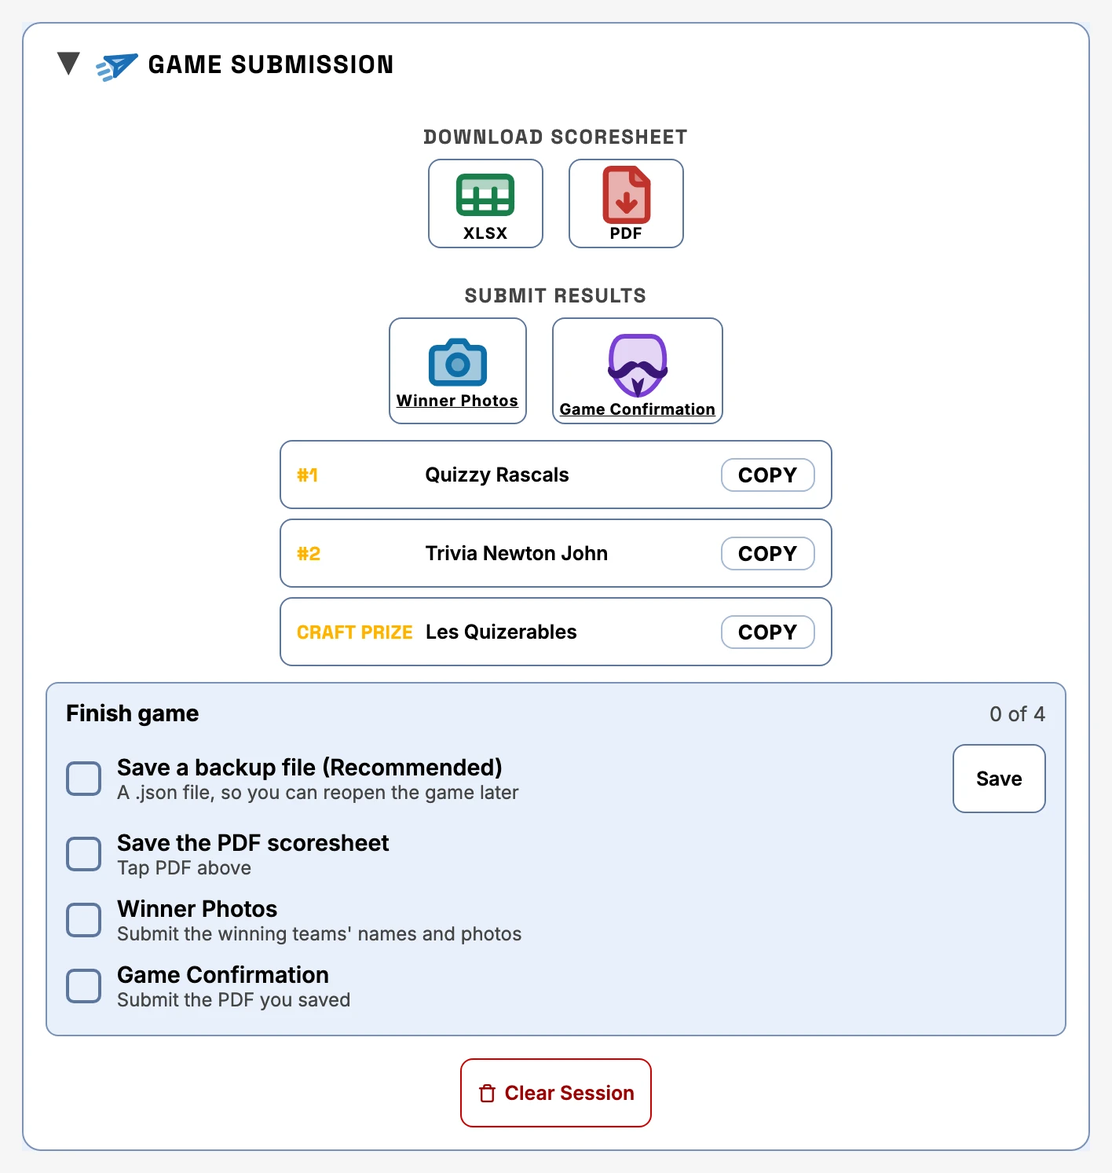
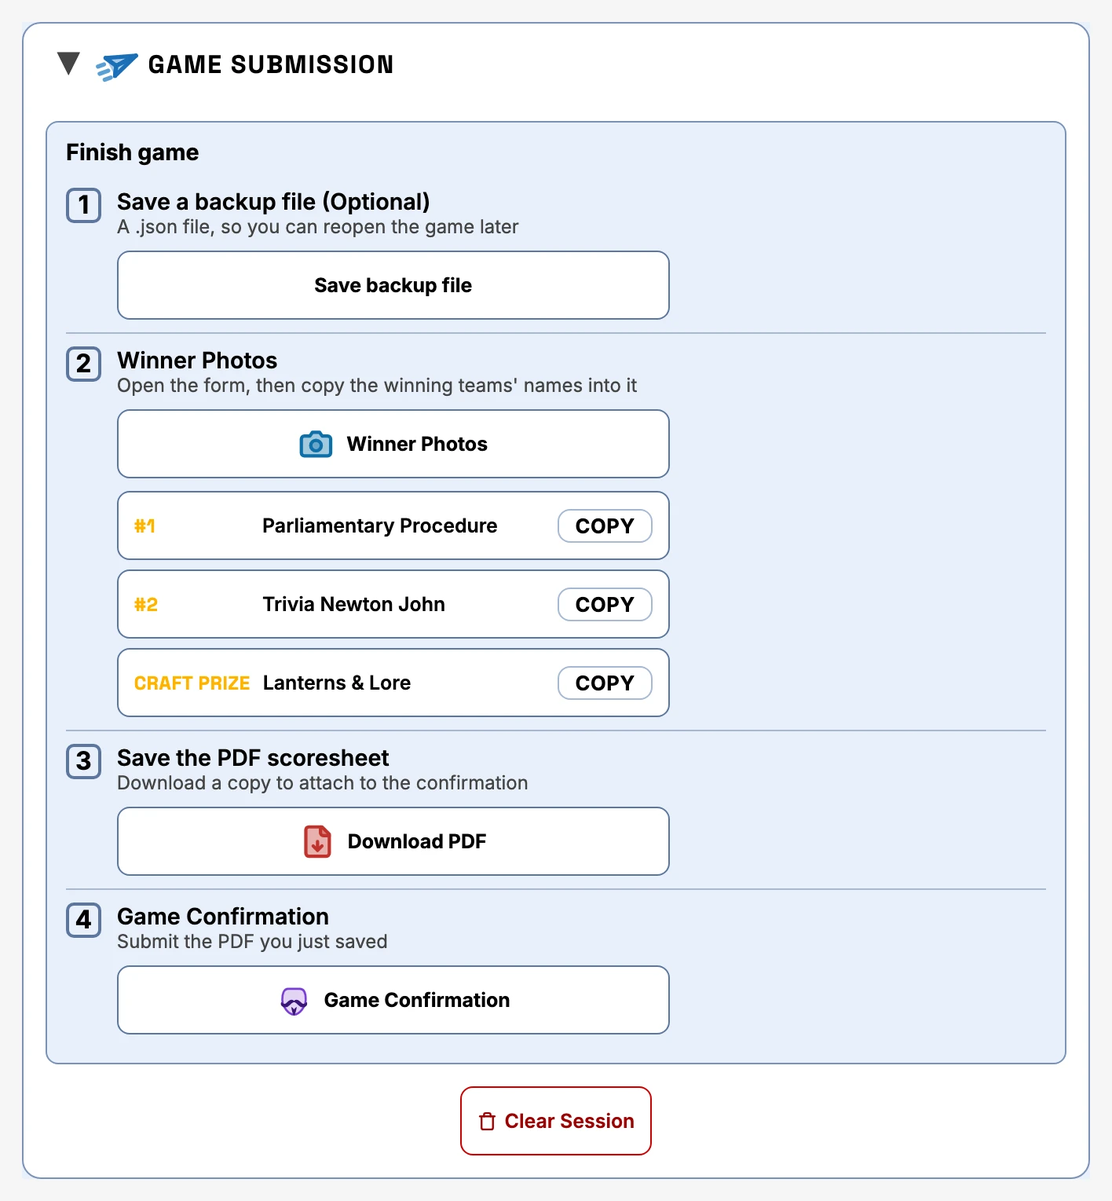
v22.59 follow-up: FAQ v1.66 rewrites Game Submission wrap-up for the numbered steps, drops XLSX mentions, regenerated export-bar screenshots

diff --git a/faq/index.html b/faq/index.html
@@ -30,7 +30,7 @@
     <script src="js/faq-bootstrap.js"></script>
   </head>
   <body>
-    <svg style="display:none" aria-hidden="true"><symbol id="ic-gear" viewBox="0 0 24 24"><path d="M12.22 2h-.44a2 2 0 0 0-2 2v.18a2 2 0 0 1-1 1.73l-.43.25a2 2 0 0 1-2 0l-.15-.08a2 2 0 0 0-2.73.73l-.22.38a2 2 0 0 0 .73 2.73l.15.1a2 2 0 0 1 1 1.72v.51a2 2 0 0 1-1 1.74l-.15.09a2 2 0 0 0-.73 2.73l.22.38a2 2 0 0 0 2.73.73l.15-.08a2 2 0 0 1 2 0l.43.25a2 2 0 0 1 1 1.73V20a2 2 0 0 0 2 2h.44a2 2 0 0 0 2-2v-.18a2 2 0 0 1 1-1.73l.43-.25a2 2 0 0 1 2 0l.15.08a2 2 0 0 0 2.73-.73l.22-.39a2 2 0 0 0-.73-2.73l-.15-.08a2 2 0 0 1-1-1.74v-.5a2 2 0 0 1 1-1.74l.15-.09a2 2 0 0 0 .73-2.73l-.22-.38a2 2 0 0 0-2.73-.73l-.15.08a2 2 0 0 1-2 0l-.43-.25a2 2 0 0 1-1-1.73V4a2 2 0 0 0-2-2z"/><circle cx="12" cy="12" r="3"/></symbol><symbol id="ic-moon" viewBox="0 0 24 24"><path d="M21 12.79A9 9 0 1 1 11.21 3 7 7 0 0 0 21 12.79z"></path></symbol><symbol id="ic-beer" viewBox="0 0 24 24"><style>.ip-2{fill:var(--vivid-beer-2);stroke:var(--icon-tint)}</style><path d="M5 8v12a2 2 0 0 0 2 2h8a2 2 0 0 0 2-2V8"/><path d="M17 9h1a3 5 0 0 1 0 10h-1"/><path d="M9 12v6"/><path d="M13 12v6"/><path class="ip-2" d="M14 7.5c-1 0-1.44.5-3 .5s-2-.5-3-.5-1.72.5-2.5.5a2.5 2.5 0 0 1 0-5c.78 0 1.57.5 2.5.5S9.44 3 11 3s2 .5 3 .5 1.72-.5 2.5-.5a2.5 2.5 0 0 1 0 5c-.78 0-1.5-.5-2.5-.5Z"/></symbol><symbol id="ic-alert" viewBox="0 0 24 24"><path d="m21.73 18-8-14a2 2 0 0 0-3.48 0l-8 14A2 2 0 0 0 4 21h16a2 2 0 0 0 1.73-3"/><path d="M12 9v4"/><path d="M12 17h.01"/></symbol><symbol id="ic-flask" viewBox="0 0 24 24"><path d="M10 2v7.31"/><path d="M14 9.3V1.99"/><path d="M8.5 2h7"/><path d="M14 9.3a6.5 6.5 0 1 1-4 0"/><path d="M5.52 16h12.96"/></symbol><symbol id="ic-hand" viewBox="0 0 24 24"><path d="M18 11V6a2 2 0 0 0-2-2a2 2 0 0 0-2 2"/><path d="M14 10V4a2 2 0 0 0-2-2a2 2 0 0 0-2 2v2"/><path d="M10 10.5V6a2 2 0 0 0-2-2a2 2 0 0 0-2 2v8"/><path d="M18 8a2 2 0 1 1 4 0v6a8 8 0 0 1-8 8h-2c-2.8 0-4.5-.86-5.99-2.34l-3.6-3.6a2 2 0 0 1 2.83-2.82L7 15"/></symbol><symbol id="ic-sort" viewBox="0 0 24 24"><path d="M7 4v16"></path><path d="m3 8 4-4 4 4"></path><path d="M17 20V4"></path><path d="m21 16-4 4-4-4"></path></symbol><symbol id="ic-lock" viewBox="0 0 24 24"><rect width="18" height="11" x="3" y="11" rx="2" ry="2"/><path d="M7 11V7a5 5 0 0 1 10 0v4"/></symbol><symbol id="ic-play" viewBox="0 0 24 24"><path d="M8 5v14l11-7z"/></symbol><symbol id="ic-pause" viewBox="0 0 24 24"><rect x="6" y="5" width="4" height="14"/><rect x="14" y="5" width="4" height="14"/></symbol><symbol id="ic-reset" viewBox="0 0 24 24"><path d="M3 12a9 9 0 1 0 9-9 9.75 9.75 0 0 0-6.74 2.74L3 8"></path><path d="M3 3v5h5"></path></symbol><symbol id="ic-chart" viewBox="0 0 24 24"><line x1="12" x2="12" y1="20" y2="10"/><line x1="18" x2="18" y1="20" y2="4"/><line x1="6" x2="6" y1="20" y2="16"/></symbol><symbol id="ic-shuffle" viewBox="0 0 24 24"><path d="M2 18h1.4c1.3 0 2.5-.6 3.3-1.7l6.1-8.6c.8-1.1 2-1.7 3.3-1.7H22"></path><path d="m18 2 4 4-4 4"></path><path d="M2 6h1.9c1.5 0 2.9.9 3.6 2.2"></path><path d="M22 18h-5.9c-1.3 0-2.6-.7-3.3-1.8l-.5-.8"></path><path d="m18 14 4 4-4 4"></path></symbol><symbol id="ic-check" viewBox="0 0 24 24"><polyline points="5,13 10,18 20,6"></polyline></symbol><symbol id="ic-drum" viewBox="0 0 24 24"><style>.dr-shell{fill:var(--icon-tint)}.ip-2{fill:var(--vivid-beer-2);stroke:var(--icon-tint)}.ip-3{fill:none;stroke:var(--icon-tint-3)}.dr-rod{stroke-width:1.9}</style><path class="dr-shell" d="M2 9v8a10 5 0 0 0 20 0V9"/><path class="ip-3 dr-rod" d="M6 9.4v8.1M12 9.8v8.8M18 9.4v8.1"/><ellipse class="ip-2" cx="12" cy="9" rx="10" ry="5"/><path class="ip-3 dr-stick" d="m2 2 6 6"/><path class="ip-3" d="m22 2-6 6"/></symbol><symbol id="ic-camera" viewBox="0 0 24 24"><path d="M14.5 4h-5L7.8 6.5H4a2 2 0 0 0-2 2V18a2 2 0 0 0 2 2h16a2 2 0 0 0 2-2V8.5a2 2 0 0 0-2-2h-3.8Z"/><circle cx="12" cy="13" r="3.6"/></symbol><symbol id="ic-sheet" viewBox="0 0 24 24"><rect x="2" y="5" width="20" height="14" rx="2"/><path class="sh-head" d="M4 5h16a2 2 0 0 1 2 2v3H2V7a2 2 0 0 1 2-2Z"/><path d="M2 14.5h20"/><path d="M8.5 10v9"/><path d="M15.5 10v9"/></symbol><symbol id="ic-pdf" viewBox="0 0 24 24"><path d="M15 2H6a2 2 0 0 0-2 2v16a2 2 0 0 0 2 2h12a2 2 0 0 0 2-2V7Z"/><path d="M14 2v4a2 2 0 0 0 2 2h4"/><path d="M12 12v6"/><path d="m9 15 3 3 3-3"/></symbol><symbol id="ic-fawkes" viewBox="0 0 24 24"><style>.ip-2{fill:var(--icon-tint);stroke:none}</style><path d="M8 4.2H16C19.2 4.2 20 8.2 20 11.4 20 16.6 15.6 21.8 12 21.8 8.4 21.8 4 16.6 4 11.4 4 8.2 4.8 4.2 8 4.2Z"/><path class="ip-2" d="M12 13.1c-.5-.9-1.6-1.3-2.6-.9-1.6.6-2.2 2.3-3.6 2.6-1 .2-1.9-.3-2.3-1.1-.3.9.1 2 1.1 2.5 1.7.8 3.5-.2 4.6-1.4.5-.6 1.1-1.1 1.8-1.4v-.3Zm0 0c.5-.9 1.6-1.3 2.6-.9 1.6.6 2.2 2.3 3.6 2.6 1 .2 1.9-.3 2.3-1.1.3.9-.1 2-1.1 2.5-1.7.8-3.5-.2-4.6-1.4-.5-.6-1.1-1.1-1.8-1.4v-.3Z"/><path class="ip-2" d="M10.1 16.6c.4 2.5 1 4.6 1.9 6.1.9-1.5 1.5-3.6 1.9-6.1-.8.4-1.3.8-1.9 1.7-.6-.9-1.1-1.3-1.9-1.7Z"/></symbol><symbol id="ic-save" viewBox="0 0 24 24"><path d="M15.2 3a2 2 0 0 1 1.4.6l3.8 3.8a2 2 0 0 1 .6 1.4V19a2 2 0 0 1-2 2H5a2 2 0 0 1-2-2V5a2 2 0 0 1 2-2z"/><path d="M17 21v-7a1 1 0 0 0-1-1H8a1 1 0 0 0-1 1v7"/><path d="M7 3v4a1 1 0 0 0 1 1h7"/></symbol><symbol id="ic-load" viewBox="0 0 24 24"><path d="m6 14 1.45-2.9A2 2 0 0 1 9.24 10H20a2 2 0 0 1 1.94 2.5l-1.55 6a2 2 0 0 1-1.94 1.5H4a2 2 0 0 1-2-2V5a2 2 0 0 1 2-2h3.9a2 2 0 0 1 1.69.9l.81 1.2a2 2 0 0 0 1.67.9H18a2 2 0 0 1 2 2v2"/></symbol><symbol id="ic-help" viewBox="0 0 24 24"><circle cx="12" cy="12" r="10"/><path d="M9.09 9a3 3 0 0 1 5.83 1c0 2-3 3-3 3"/><path d="M12 17h.01"/></symbol><symbol id="ic-sun" viewBox="0 0 24 24"><circle cx="12" cy="12" r="5"></circle><g stroke-width="2" stroke-linecap="round"><line x1="12" y1="1" x2="12" y2="3"></line><line x1="12" y1="21" x2="12" y2="23"></line><line x1="4.22" y1="4.22" x2="5.64" y2="5.64"></line><line x1="18.36" y1="18.36" x2="19.78" y2="19.78"></line><line x1="1" y1="12" x2="3" y2="12"></line><line x1="21" y1="12" x2="23" y2="12"></line><line x1="4.22" y1="19.78" x2="5.64" y2="18.36"></line><line x1="18.36" y1="5.64" x2="19.78" y2="4.22"></line></g></symbol><symbol id="ic-x" viewBox="0 0 24 24"><line x1="6" y1="6" x2="18" y2="18"></line><line x1="18" y1="6" x2="6" y2="18"></line></symbol><symbol id="ic-horn" viewBox="0 0 24 24"><path class="pl-tri" d="M8.5 5.5 19 12l-10.5 6.5z"/></symbol><symbol id="ic-clipboard" viewBox="0 0 24 24"><rect width="8" height="4" x="8" y="2" rx="1" ry="1"/><path d="M16 4h2a2 2 0 0 1 2 2v14a2 2 0 0 1-2 2H6a2 2 0 0 1-2-2V6a2 2 0 0 1 2-2h2"/></symbol><symbol id="ic-txt" viewBox="0 0 24 24"><path d="M15 2H6a2 2 0 0 0-2 2v16a2 2 0 0 0 2 2h12a2 2 0 0 0 2-2V7Z"/><path d="M14 2v4a2 2 0 0 0 2 2h4"/><path d="M16 13H8"/><path d="M16 17H8"/></symbol></svg>
+    <svg style="display:none" aria-hidden="true"><symbol id="ic-gear" viewBox="0 0 24 24"><path d="M12.22 2h-.44a2 2 0 0 0-2 2v.18a2 2 0 0 1-1 1.73l-.43.25a2 2 0 0 1-2 0l-.15-.08a2 2 0 0 0-2.73.73l-.22.38a2 2 0 0 0 .73 2.73l.15.1a2 2 0 0 1 1 1.72v.51a2 2 0 0 1-1 1.74l-.15.09a2 2 0 0 0-.73 2.73l.22.38a2 2 0 0 0 2.73.73l.15-.08a2 2 0 0 1 2 0l.43.25a2 2 0 0 1 1 1.73V20a2 2 0 0 0 2 2h.44a2 2 0 0 0 2-2v-.18a2 2 0 0 1 1-1.73l.43-.25a2 2 0 0 1 2 0l.15.08a2 2 0 0 0 2.73-.73l.22-.39a2 2 0 0 0-.73-2.73l-.15-.08a2 2 0 0 1-1-1.74v-.5a2 2 0 0 1 1-1.74l.15-.09a2 2 0 0 0 .73-2.73l-.22-.38a2 2 0 0 0-2.73-.73l-.15.08a2 2 0 0 1-2 0l-.43-.25a2 2 0 0 1-1-1.73V4a2 2 0 0 0-2-2z"/><circle cx="12" cy="12" r="3"/></symbol><symbol id="ic-moon" viewBox="0 0 24 24"><path d="M21 12.79A9 9 0 1 1 11.21 3 7 7 0 0 0 21 12.79z"></path></symbol><symbol id="ic-beer" viewBox="0 0 24 24"><style>.ip-2{fill:var(--vivid-beer-2);stroke:var(--icon-tint)}</style><path d="M5 8v12a2 2 0 0 0 2 2h8a2 2 0 0 0 2-2V8"/><path d="M17 9h1a3 5 0 0 1 0 10h-1"/><path d="M9 12v6"/><path d="M13 12v6"/><path class="ip-2" d="M14 7.5c-1 0-1.44.5-3 .5s-2-.5-3-.5-1.72.5-2.5.5a2.5 2.5 0 0 1 0-5c.78 0 1.57.5 2.5.5S9.44 3 11 3s2 .5 3 .5 1.72-.5 2.5-.5a2.5 2.5 0 0 1 0 5c-.78 0-1.5-.5-2.5-.5Z"/></symbol><symbol id="ic-alert" viewBox="0 0 24 24"><path d="m21.73 18-8-14a2 2 0 0 0-3.48 0l-8 14A2 2 0 0 0 4 21h16a2 2 0 0 0 1.73-3"/><path d="M12 9v4"/><path d="M12 17h.01"/></symbol><symbol id="ic-flask" viewBox="0 0 24 24"><path d="M10 2v7.31"/><path d="M14 9.3V1.99"/><path d="M8.5 2h7"/><path d="M14 9.3a6.5 6.5 0 1 1-4 0"/><path d="M5.52 16h12.96"/></symbol><symbol id="ic-hand" viewBox="0 0 24 24"><path d="M18 11V6a2 2 0 0 0-2-2a2 2 0 0 0-2 2"/><path d="M14 10V4a2 2 0 0 0-2-2a2 2 0 0 0-2 2v2"/><path d="M10 10.5V6a2 2 0 0 0-2-2a2 2 0 0 0-2 2v8"/><path d="M18 8a2 2 0 1 1 4 0v6a8 8 0 0 1-8 8h-2c-2.8 0-4.5-.86-5.99-2.34l-3.6-3.6a2 2 0 0 1 2.83-2.82L7 15"/></symbol><symbol id="ic-sort" viewBox="0 0 24 24"><path d="M7 4v16"></path><path d="m3 8 4-4 4 4"></path><path d="M17 20V4"></path><path d="m21 16-4 4-4-4"></path></symbol><symbol id="ic-lock" viewBox="0 0 24 24"><rect width="18" height="11" x="3" y="11" rx="2" ry="2"/><path d="M7 11V7a5 5 0 0 1 10 0v4"/></symbol><symbol id="ic-play" viewBox="0 0 24 24"><path d="M8 5v14l11-7z"/></symbol><symbol id="ic-pause" viewBox="0 0 24 24"><rect x="6" y="5" width="4" height="14"/><rect x="14" y="5" width="4" height="14"/></symbol><symbol id="ic-reset" viewBox="0 0 24 24"><path d="M3 12a9 9 0 1 0 9-9 9.75 9.75 0 0 0-6.74 2.74L3 8"></path><path d="M3 3v5h5"></path></symbol><symbol id="ic-chart" viewBox="0 0 24 24"><line x1="12" x2="12" y1="20" y2="10"/><line x1="18" x2="18" y1="20" y2="4"/><line x1="6" x2="6" y1="20" y2="16"/></symbol><symbol id="ic-shuffle" viewBox="0 0 24 24"><path d="M2 18h1.4c1.3 0 2.5-.6 3.3-1.7l6.1-8.6c.8-1.1 2-1.7 3.3-1.7H22"></path><path d="m18 2 4 4-4 4"></path><path d="M2 6h1.9c1.5 0 2.9.9 3.6 2.2"></path><path d="M22 18h-5.9c-1.3 0-2.6-.7-3.3-1.8l-.5-.8"></path><path d="m18 14 4 4-4 4"></path></symbol><symbol id="ic-check" viewBox="0 0 24 24"><polyline points="5,13 10,18 20,6"></polyline></symbol><symbol id="ic-drum" viewBox="0 0 24 24"><style>.dr-shell{fill:var(--icon-tint)}.ip-2{fill:var(--vivid-beer-2);stroke:var(--icon-tint)}.ip-3{fill:none;stroke:var(--icon-tint-3)}.dr-rod{stroke-width:1.9}</style><path class="dr-shell" d="M2 9v8a10 5 0 0 0 20 0V9"/><path class="ip-3 dr-rod" d="M6 9.4v8.1M12 9.8v8.8M18 9.4v8.1"/><ellipse class="ip-2" cx="12" cy="9" rx="10" ry="5"/><path class="ip-3 dr-stick" d="m2 2 6 6"/><path class="ip-3" d="m22 2-6 6"/></symbol><symbol id="ic-camera" viewBox="0 0 24 24"><path d="M14.5 4h-5L7.8 6.5H4a2 2 0 0 0-2 2V18a2 2 0 0 0 2 2h16a2 2 0 0 0 2-2V8.5a2 2 0 0 0-2-2h-3.8Z"/><circle cx="12" cy="13" r="3.6"/></symbol><symbol id="ic-pdf" viewBox="0 0 24 24"><path d="M15 2H6a2 2 0 0 0-2 2v16a2 2 0 0 0 2 2h12a2 2 0 0 0 2-2V7Z"/><path d="M14 2v4a2 2 0 0 0 2 2h4"/><path d="M12 12v6"/><path d="m9 15 3 3 3-3"/></symbol><symbol id="ic-fawkes" viewBox="0 0 24 24"><style>.ip-2{fill:var(--icon-tint);stroke:none}</style><path d="M8 4.2H16C19.2 4.2 20 8.2 20 11.4 20 16.6 15.6 21.8 12 21.8 8.4 21.8 4 16.6 4 11.4 4 8.2 4.8 4.2 8 4.2Z"/><path class="ip-2" d="M12 13.1c-.5-.9-1.6-1.3-2.6-.9-1.6.6-2.2 2.3-3.6 2.6-1 .2-1.9-.3-2.3-1.1-.3.9.1 2 1.1 2.5 1.7.8 3.5-.2 4.6-1.4.5-.6 1.1-1.1 1.8-1.4v-.3Zm0 0c.5-.9 1.6-1.3 2.6-.9 1.6.6 2.2 2.3 3.6 2.6 1 .2 1.9-.3 2.3-1.1.3.9-.1 2-1.1 2.5-1.7.8-3.5-.2-4.6-1.4-.5-.6-1.1-1.1-1.8-1.4v-.3Z"/><path class="ip-2" d="M10.1 16.6c.4 2.5 1 4.6 1.9 6.1.9-1.5 1.5-3.6 1.9-6.1-.8.4-1.3.8-1.9 1.7-.6-.9-1.1-1.3-1.9-1.7Z"/></symbol><symbol id="ic-save" viewBox="0 0 24 24"><path d="M15.2 3a2 2 0 0 1 1.4.6l3.8 3.8a2 2 0 0 1 .6 1.4V19a2 2 0 0 1-2 2H5a2 2 0 0 1-2-2V5a2 2 0 0 1 2-2z"/><path d="M17 21v-7a1 1 0 0 0-1-1H8a1 1 0 0 0-1 1v7"/><path d="M7 3v4a1 1 0 0 0 1 1h7"/></symbol><symbol id="ic-load" viewBox="0 0 24 24"><path d="m6 14 1.45-2.9A2 2 0 0 1 9.24 10H20a2 2 0 0 1 1.94 2.5l-1.55 6a2 2 0 0 1-1.94 1.5H4a2 2 0 0 1-2-2V5a2 2 0 0 1 2-2h3.9a2 2 0 0 1 1.69.9l.81 1.2a2 2 0 0 0 1.67.9H18a2 2 0 0 1 2 2v2"/></symbol><symbol id="ic-help" viewBox="0 0 24 24"><circle cx="12" cy="12" r="10"/><path d="M9.09 9a3 3 0 0 1 5.83 1c0 2-3 3-3 3"/><path d="M12 17h.01"/></symbol><symbol id="ic-sun" viewBox="0 0 24 24"><circle cx="12" cy="12" r="5"></circle><g stroke-width="2" stroke-linecap="round"><line x1="12" y1="1" x2="12" y2="3"></line><line x1="12" y1="21" x2="12" y2="23"></line><line x1="4.22" y1="4.22" x2="5.64" y2="5.64"></line><line x1="18.36" y1="18.36" x2="19.78" y2="19.78"></line><line x1="1" y1="12" x2="3" y2="12"></line><line x1="21" y1="12" x2="23" y2="12"></line><line x1="4.22" y1="19.78" x2="5.64" y2="18.36"></line><line x1="18.36" y1="5.64" x2="19.78" y2="4.22"></line></g></symbol><symbol id="ic-x" viewBox="0 0 24 24"><line x1="6" y1="6" x2="18" y2="18"></line><line x1="18" y1="6" x2="6" y2="18"></line></symbol><symbol id="ic-horn" viewBox="0 0 24 24"><path class="pl-tri" d="M8.5 5.5 19 12l-10.5 6.5z"/></symbol><symbol id="ic-clipboard" viewBox="0 0 24 24"><rect width="8" height="4" x="8" y="2" rx="1" ry="1"/><path d="M16 4h2a2 2 0 0 1 2 2v14a2 2 0 0 1-2 2H6a2 2 0 0 1-2-2V6a2 2 0 0 1 2-2h2"/></symbol><symbol id="ic-txt" viewBox="0 0 24 24"><path d="M15 2H6a2 2 0 0 0-2 2v16a2 2 0 0 0 2 2h12a2 2 0 0 0 2-2V7Z"/><path d="M14 2v4a2 2 0 0 0 2 2h4"/><path d="M16 13H8"/><path d="M16 17H8"/></symbol></svg>
     <div class="faq-header">
       <div class="faq-header-row">
         <!-- Just the logo and the Back link stack in one left-hand column so the Display Settings
@@ -824,7 +824,7 @@
           </summary>
           <div class="faq-a">
             <p>
-              It's printed on the PDF and XLSX scoresheets.
+              It's printed on the PDF scoresheet.
             </p>
           </div>
         </details>
@@ -890,7 +890,7 @@
           </summary>
           <div class="faq-a">
             <p>
-              Yes. The PDF and XLSX scoresheets, Try Example and Take the Tour
+              Yes. The PDF scoresheet, Try Example and Take the Tour
               all work in Name That Tune.
             </p>
           </div>
@@ -956,7 +956,7 @@
           <div class="faq-a">
             <ul>
               <li>
-                <strong>PDF and XLSX scoresheets</strong> and
+                <strong>PDF scoresheet</strong> and
                 <strong>Try Example</strong> work in this mode.
               </li>
               <li>
@@ -1324,11 +1324,11 @@
         <div class="faq-shot">
           <img
             loading="lazy"
-            width="1416" height="1482" decoding="async"
+            width="1416" height="1529" decoding="async"
             src="screenshots/export-bar.webp"
             data-shot-base="export-bar"
-            alt="Game Submission section showing the Download Scoresheet and Submit Results groups, with Copy buttons for the top teams and the craft prize winner under the Winner Photos and Game Confirmation buttons"
-            onerror="faqShotFallback(this,'Game Submission section — the square XLSX / PDF buttons and the Game Confirmation link')"
+            alt="Game Submission section as one numbered list: Save a backup file (Optional), Winner Photos with Copy buttons for the top teams and the craft prize winner under it, Download PDF, and Game Confirmation"
+            onerror="faqShotFallback(this,'Game Submission section — the four numbered steps')"
           />
         </div>
 
@@ -1347,26 +1347,23 @@
             <span class="faq-q-text">How do I wrap up after a finished game?</span><span class="faq-q-arrow">▼</span>
           </summary>
           <div class="faq-a">
+            <p>Scroll to <strong>Game Submission</strong> and work down the numbered list:</p>
             <ol>
-              <li>Scroll to <strong>Game Submission</strong>. Under <strong>Download Scoresheet</strong>, tap <strong>PDF</strong> to save the finished scoresheet.</li>
-              <li>Under <strong>Submit Results</strong>, tap <strong>Winner Photos</strong> to submit the winning teams' names and photos.</li>
-              <li>Tap <strong>Game Confirmation</strong> and submit the PDF you saved.</li>
-              <li>Back in the app, answer the "Clear session?" prompt.</li>
+              <li><strong>Save a backup file (Optional).</strong> A .json file so you can reopen the game later. Skip it if you don't need one.</li>
+              <li><strong>Winner Photos.</strong> Tap the button to open the form for the winning teams' names and photos, then tap <strong>Copy</strong> under it for each team name you need to paste in.</li>
+              <li><strong>Download PDF.</strong> Saves the finished scoresheet to your device.</li>
+              <li><strong>Game Confirmation.</strong> Opens the form where you submit the PDF you saved.</li>
             </ol>
-            <p>A <strong>Finish game</strong> checklist ticks each step off as you go. It also reminds you to save a backup file first, so you can reopen the game later.</p>
+            <p>Each step ticks off as you go, but nothing is forced, so you can skip or redo any of them. When you're finished, tap <strong>Clear Session</strong> and answer the prompt.</p>
           </div>
         </details>
 
-        <details class="faq-item" id="q-whats-the-difference-between-xlsx-pdf-and-the">
+        <details class="faq-item" id="q-whats-the-difference-between-the-pdf-winner-photos-and-the">
           <summary>
-            <span class="faq-q-text">What's the difference between XLSX, PDF, and the Game Confirmation
-            link?</span><span class="faq-q-arrow">▼</span>
+            <span class="faq-q-text">What's the difference between the PDF, Winner Photos, and the Game Confirmation link?</span><span class="faq-q-arrow">▼</span>
           </summary>
           <div class="faq-a">
             <ul>
-              <li>
-                <strong><svg class="icon-ui icon-sheet" viewBox="0 0 24 24" aria-hidden="true" focusable="false" data-emoji="📈"><use href="#ic-sheet"></use></svg> XLSX</strong> — the official spreadsheet scoresheet, filled in.
-              </li>
               <li>
                 <strong><svg class="icon-ui icon-tinted icon-pdf" viewBox="0 0 24 24" aria-hidden="true" focusable="false" data-emoji="📕"><use href="#ic-pdf"></use></svg> PDF</strong> — a printable, easy-to-read scoresheet.
               </li>
@@ -1377,29 +1374,6 @@
                 <strong><svg class="icon-ui icon-tinted icon-fawkes" viewBox="0 0 24 24" aria-hidden="true" focusable="false" data-emoji="🎭"><use href="#ic-fawkes"></use></svg> Game Confirmation</strong> — opens the form in a new tab where you submit your saved PDF.
               </li>
             </ul>
-          </div>
-        </details>
-
-        <details class="faq-item" id="q-what-does-the-xlsx-export-look-like">
-          <summary>
-            <span class="faq-q-text">What does the XLSX export look like?</span><span
-              class="faq-q-arrow"
-              >▼</span
-            >
-          </summary>
-          <div class="faq-a">
-            <p>
-              The official spreadsheet, with the event details and every team's wagers and totals filled in.
-            </p>
-            <div class="faq-shot">
-              <img
-            loading="lazy"
-                width="3427" height="616" decoding="async"
-            src="screenshots/xlsx-export.webp"
-                alt="The exported XLSX scoresheet opened in a spreadsheet app, showing the filled-in header, zebra-striped team rows with running totals, and the ranked standings block"
-                onerror="faqShotFallback(this,'The exported XLSX scoresheet, opened')"
-              />
-            </div>
           </div>
         </details>
 
@@ -1496,7 +1470,7 @@
       <section class="faq-section" id="manual-save-load">
         <h2 class="faq-section-title">Manual Save &amp; Load</h2>
         <p class="faq-section-sub">
-          A backup of the whole game, separate from autosave and from the PDF/XLSX scoresheets.
+          A backup of the whole game, separate from autosave and from the PDF scoresheet.
         </p>
 
         <div class="faq-shot">
@@ -1525,17 +1499,17 @@
           </div>
         </details>
 
-        <details class="faq-item" id="q-how-is-this-different-from-the-pdf-xlsx">
+        <details class="faq-item" id="q-how-is-this-different-from-the-pdf-export">
           <summary>
-            <span class="faq-q-text">How is this different from the PDF/XLSX exports?</span><span
+            <span class="faq-q-text">How is this different from the PDF export?</span><span
               class="faq-q-arrow"
               >▼</span
             >
           </summary>
           <div class="faq-a">
             <p>
-              The PDF and XLSX scoresheets are for printing and submitting. The
-              app can't read them back in. Save/Load is a backup of the game
+              The PDF scoresheet is for printing and submitting. The
+              app can't read it back in. Save/Load is a backup of the game
               itself.
             </p>
           </div>

diff --git a/tests/v22-47.test.js b/tests/v22-47.test.js
@@ -40,14 +40,15 @@ describe("v22.47 closing tutorial steps and FAQ", () => {
     assert.match(src, /winning teams' names and photos/);
   });
 
-  it("FAQ has the wrap-up walkthrough in PDF, Winner Photos, Game Confirmation order", async () => {
+  it("FAQ has the wrap-up walkthrough in backup, Winner Photos, PDF, Game Confirmation order", async () => {
     const window = await loadFaqWindow();
     try {
       const item = window.document.getElementById("q-how-do-i-wrap-up-a-finished-game");
       assert.ok(item, "wrap-up FAQ item missing");
-      const steps = [...item.querySelectorAll("ol li strong")].map((s) => s.textContent);
-      const pos = ["PDF", "Winner Photos", "Game Confirmation"].map((t) => steps.indexOf(t));
-      assert.ok(pos[0] >= 0 && pos[1] > pos[0] && pos[2] > pos[1], "buttons missing or out of order: " + steps);
+      const steps = [...item.querySelectorAll("ol > li > strong:first-child")].map((s) => s.textContent);
+      const pos = ["Save a backup file", "Winner Photos", "Download PDF", "Game Confirmation"].map((t) => steps.findIndex((x) => x.startsWith(t)));
+      assert.deepEqual(pos, [0, 1, 2, 3], "steps missing or out of order: " + steps);
+      assert.match(item.textContent, /Optional/);
       assert.match(item.textContent, /winning teams' names and photos/);
     } finally {
       window.close();

diff --git a/faq/js/faq.js b/faq/js/faq.js
@@ -4,7 +4,7 @@
 // #versionLabel element. Here the same string feeds two spots — the page footer and the
 // Settings panel's settings-meta row — so bumping a release only means editing these two
 // constants instead of hunting down every place the version text is written out by hand.
-const FAQ_VERSION = "v1.65";
+const FAQ_VERSION = "v1.66";
 const FAQ_VERSION_DATE = "21 Nov 2026";
 
 // Same Lucide sun/moon geometry as the main app's THEME_ICON_SUN/MOON (js/app.js), tagged

diff --git a/faq/screenshots/README.md b/faq/screenshots/README.md
@@ -23,7 +23,7 @@ both files.
 
 Three shots deliberately have **no** `-light` variant and no `data-shot-base`,
 because none of them is a picture of the app UI and none changes with the
-theme: `xlsx-export` (a workbook in a spreadsheet app), `pdf-export` (a rendered
+theme: `pdf-export` (a rendered
 PDF page) and `jd-upload-form` (a third-party form). Giving them the attribute
 only makes the page probe for a file that will never exist.
 
@@ -51,8 +51,7 @@ comparison it exists to make.
 | `craft-prize.webp` | The Craft Prize Drawing section open pre-draw, showing the Exclude Top / Drumroll-seconds steppers and the square **Start Drumroll** button (v19.60). | Craft Prize Drawing |
 | `craft-prize-drumroll.webp` | The Craft Prize drumroll actively playing, right after clicking Start Drumroll — the spinning name and countdown bar. | Craft Prize Drawing |
 | `craft-prize-winner.webp` | The finished draw — winning team announced, with the **Clear** button next to the result and the Winner Announcement Script below. | Craft Prize Drawing |
-| `export-bar.webp` | The Game Submission section — the Download Scoresheet group (XLSX / PDF), the Submit Results group (📷 Winner Photos / 🎭 Game Confirmation) with the Copy buttons for the top teams and craft prize winner under it, the Finish game checklist and Clear Session. Dark + light. | Exporting |
-| `xlsx-export.webp` | The downloaded XLSX scoresheet, opened in a spreadsheet app — header (Location/Date/Quiz #/Host), a few zebra-striped team rows, and only as many team rows as the game has. | Exporting |
+| `export-bar.webp` | The Game Submission section as one numbered list — Save a backup file (Optional), Winner Photos (📷 link with the Copy buttons for the top teams and craft prize winner under it), Download PDF, Game Confirmation (🎭), then Clear Session. Dark + light. | Exporting |
 | `pdf-export.webp` | The downloaded PDF scoresheet — same header plus full standings. | Exporting |
 | `jd-upload-form.webp` | The Game Confirmation page, opened in its own browser tab. | Exporting |
 | `sound-test-buttons.webp` | The Craft Prize Drawing's Test Sounds bar — the square Roll / Fade out / Crash / Horn buttons (Advanced Settings → Manual Drumroll Control **and** Sound Test Buttons both on). | Tips & Tricks |

diff --git a/faq/CHANGELOG.md b/faq/CHANGELOG.md
@@ -2,6 +2,16 @@
 
 All notable changes to the Scorekeeper FAQ site are documented here.
 
+## [1.66] - 21 Nov 2026
+
+### Changed
+- **Game Submission screenshot** (`export-bar`, dark and light) regenerated for the new numbered-step layout (backup Optional, Winner Photos with team-name Copy buttons, Download PDF, Game Confirmation).
+- **"How do I wrap up after a finished game?"** rewritten around the four numbered steps.
+- **"What's the difference between…"** now covers the PDF, Winner Photos and Game Confirmation only; XLSX mentions removed throughout (the XLSX button is gone from the app).
+
+### Removed
+- **"What does the XLSX export look like?"** and its `xlsx-export.webp` screenshot.
+
 ## [1.65] - 21 Nov 2026
 
 ### Changed
